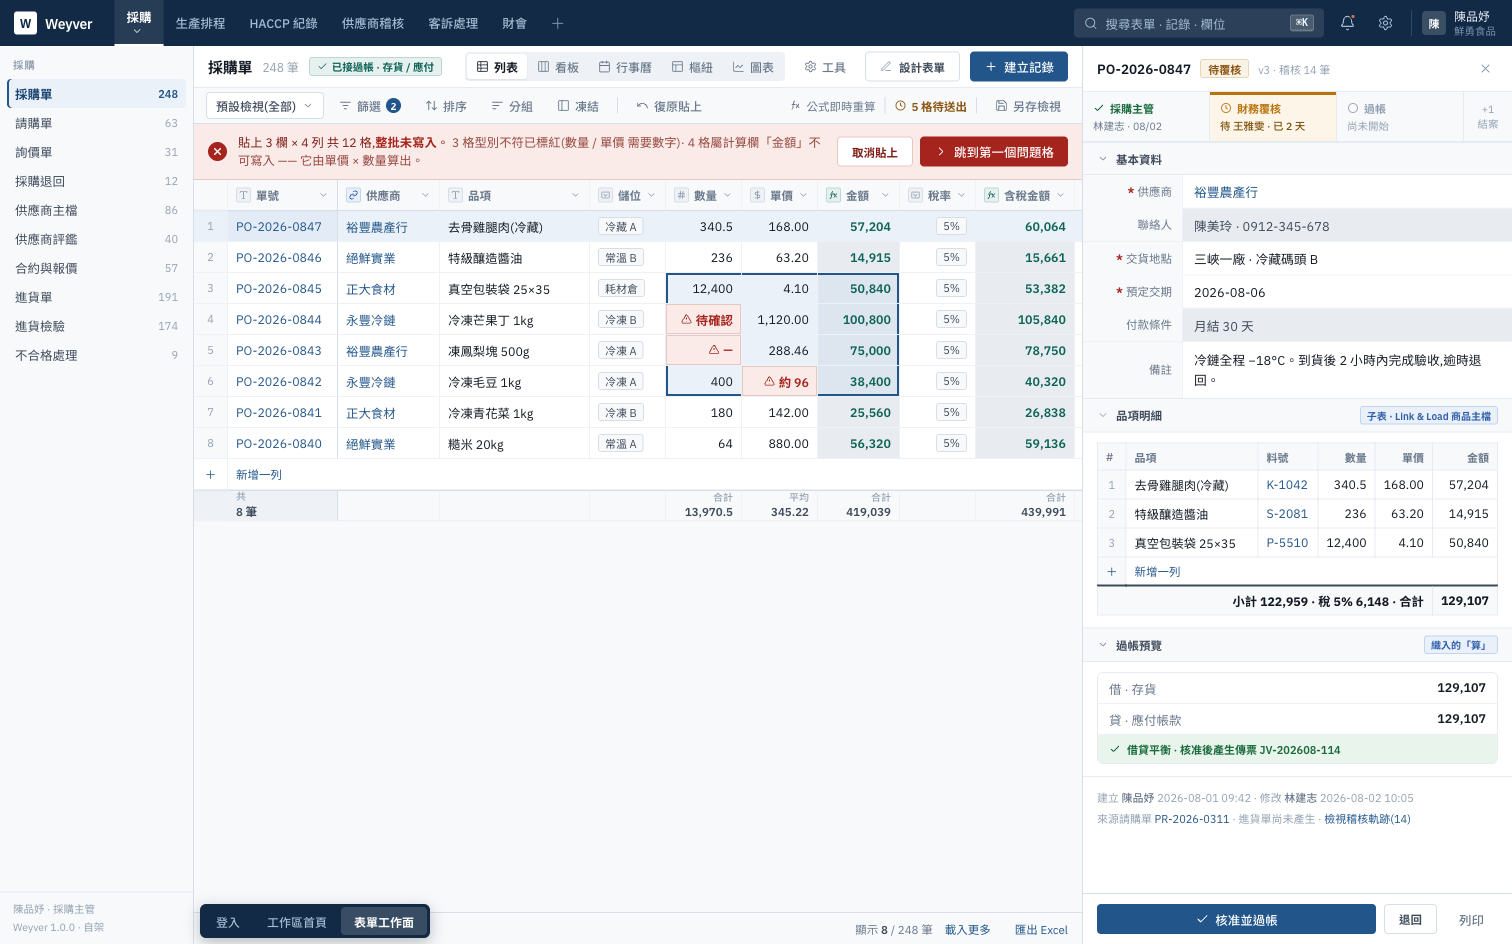
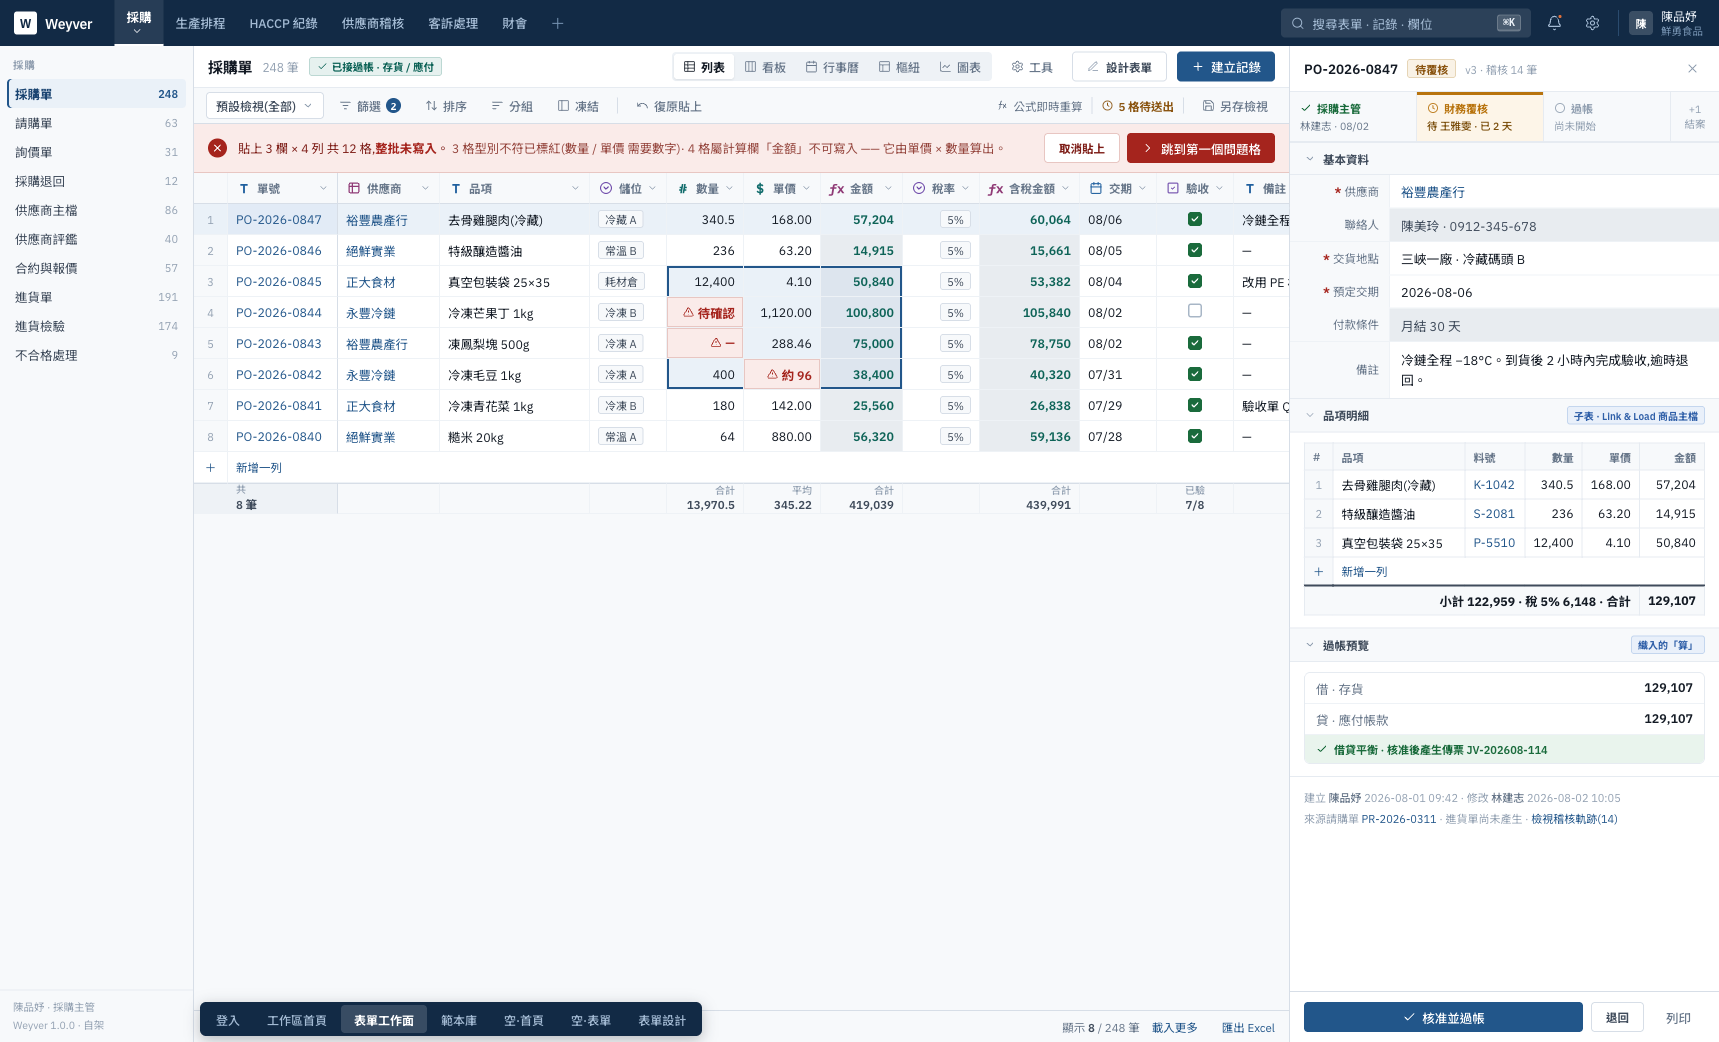
docs(design): E 案型別圖示套進全部三個畫面
決策方選定 B+D 混合並要求套進 mockup。三處:
網格表頭(12 個)· 範本關聯圖(9 個)· 設計器面板(15 個)。

**共用同一個 `.ty`,不是三份碰巧一致的樣式** —— 改一次三個畫面一起變。
`.ty` 本身改成 E 案:去框去底(方框在 13px 下和字符打架,
字符本來就有自己的字身),分組色由 inline --cN 給。

分組色:基本 c1 藍 · 數值 c5 松綠 · 選擇 c3 紫 · 聯絡 c6 青 · 關聯與計算 c4 梅。

**在網格表頭上的實際收益**:一眼掃得出哪幾欄是金額、哪幾欄是算出來的、
哪幾欄是選單 —— 這正是 §6.2「色彩承載結構資訊」而不是裝飾。
(單號 T / 供應商 ⊞ / 數量 # / 單價 $ / 金額 ƒx / 含稅金額 ƒx / 稅率 ▾ / 交期 📅)

⚠ 這推翻共識 R9「純量灰、只有關聯才上色」。
R9 取樣自十家後台軟體,而 §6.1 已記下那個方法論限制:
**共識能告訴你「大家都這樣」,不能告訴你「這樣是對的」。**

diff --git a/docs/mockups/weyver-v2.html b/docs/mockups/weyver-v2.html
@@ -173,12 +173,16 @@ a:hover{text-decoration:underline;}
 .chip.er{background:var(--er-t);color:var(--er);border-color:var(--er-l);}
 .chip.nt{background:var(--nt-t);color:var(--nt);border-color:var(--nt-l);}
 
-/* 共識 R9 —— 型別章:純量灰,關聯 / 公式才上色 */
-.ty{display:inline-flex;align-items:center;justify-content:center;width:15px;height:15px;
-  border:1px solid var(--line);background:var(--paper-3);color:var(--ink-4);border-radius:2px;flex-shrink:0;}
-.ty svg{width:10px;height:10px;stroke-width:2;}
-.ty.rel{background:var(--rel-t);color:var(--rel);border-color:var(--rel-l);}
-.ty.fx{background:var(--fx-t);color:var(--fx);border-color:var(--fx-l);}
+/* 🔴 型別圖示 = E 案(B+D 混合,2026-08-08 裁定)。三個畫面共用同一個 `.ty`:
+   網格表頭 · 範本關聯圖 · 設計器面板。
+   去框去底 —— 方框在 13px 下會和字符打架(字符本來就有自己的字身)。
+   分組色由 inline `--cN` 給:顏色回答「這是哪一類欄位」,不是每個型別各自一色。
+   ⚠ 這推翻了共識 R9「純量灰、只有關聯才上色」——
+      R9 取樣自十家後台軟體,而 §6.1 已記下那個方法論限制。 */
+.ty{display:inline-flex;align-items:center;justify-content:center;width:16px;height:16px;
+  flex-shrink:0;border:0;background:none;color:var(--ink-4);}
+.ty svg{width:13px;height:13px;stroke-width:2;}
+.ty.gl{font-family:'IBM Plex Mono',monospace;font-size:12.5px;font-weight:600;line-height:1;}
 
 /* ══════════════════════════════════════════════════════════════════
    畫面一|登入 —— 🔴 **決策方自己做的**(2026-08-08),原樣移植不重新詮釋。
@@ -1315,18 +1319,18 @@ a:hover{text-decoration:underline;}
             <thead>
               <tr>
                 <th class="gut"></th>
-                <th class="frz" style="min-width:110px"><div class="hh"><span class="ty"><svg viewBox="0 0 24 24"><path d="M4 7V4h16v3M9 20h6M12 4v16"/></svg></span>單號<span class="gr"><svg viewBox="0 0 24 24"><path d="m6 9 6 6 6-6"/></svg></span></div></th>
-                <th class="" style="min-width:102px"><div class="hh"><span class="ty rel"><svg viewBox="0 0 24 24"><path d="M10 13a5 5 0 0 0 7 0l3-3a5 5 0 0 0-7-7l-1 1"/><path d="M14 11a5 5 0 0 0-7 0l-3 3a5 5 0 0 0 7 7l1-1"/></svg></span>供應商<span class="gr"><svg viewBox="0 0 24 24"><path d="m6 9 6 6 6-6"/></svg></span></div></th>
-                <th class="" style="min-width:150px"><div class="hh"><span class="ty"><svg viewBox="0 0 24 24"><path d="M4 7V4h16v3M9 20h6M12 4v16"/></svg></span>品項<span class="gr"><svg viewBox="0 0 24 24"><path d="m6 9 6 6 6-6"/></svg></span></div></th>
-                <th class="" style="min-width:76px"><div class="hh"><span class="ty"><svg viewBox="0 0 24 24"><rect width="18" height="14" x="3" y="5" rx="2"/><path d="m8 11 4 4 4-4"/></svg></span>儲位<span class="gr"><svg viewBox="0 0 24 24"><path d="m6 9 6 6 6-6"/></svg></span></div></th>
-                <th class="r" style="min-width:72px"><div class="hh"><span class="ty"><svg viewBox="0 0 24 24"><path d="M4 9h16M4 15h16M10 3 8 21M16 3l-2 18"/></svg></span>數量<span class="gr"><svg viewBox="0 0 24 24"><path d="m6 9 6 6 6-6"/></svg></span></div></th>
-                <th class="r" style="min-width:76px"><div class="hh"><span class="ty"><svg viewBox="0 0 24 24"><path d="M12 2v20M17 5H9.5a3.5 3.5 0 0 0 0 7h5a3.5 3.5 0 0 1 0 7H6"/></svg></span>單價<span class="gr"><svg viewBox="0 0 24 24"><path d="m6 9 6 6 6-6"/></svg></span></div></th>
-                <th class="r" style="min-width:82px"><div class="hh"><span class="ty fx"><svg viewBox="0 0 24 24"><path d="M4 20c2 0 2.3-1.5 2.6-3L8.6 5C8.9 3.5 9.6 3 11 3"/><path d="M5 10h6M13 9l6 8M19 9l-6 8"/></svg></span>金額<span class="gr"><svg viewBox="0 0 24 24"><path d="m6 9 6 6 6-6"/></svg></span></div></th>
-                <th class="r" style="min-width:60px"><div class="hh"><span class="ty"><svg viewBox="0 0 24 24"><rect width="18" height="14" x="3" y="5" rx="2"/><path d="m8 11 4 4 4-4"/></svg></span>稅率<span class="gr"><svg viewBox="0 0 24 24"><path d="m6 9 6 6 6-6"/></svg></span></div></th>
-                <th class="r" style="min-width:90px"><div class="hh"><span class="ty fx"><svg viewBox="0 0 24 24"><path d="M4 20c2 0 2.3-1.5 2.6-3L8.6 5C8.9 3.5 9.6 3 11 3"/><path d="M5 10h6M13 9l6 8M19 9l-6 8"/></svg></span>含稅金額<span class="gr"><svg viewBox="0 0 24 24"><path d="m6 9 6 6 6-6"/></svg></span></div></th>
-                <th class="" style="min-width:68px"><div class="hh"><span class="ty"><svg viewBox="0 0 24 24"><rect width="18" height="18" x="3" y="4" rx="2"/><path d="M3 10h18M8 2v4M16 2v4"/></svg></span>交期<span class="gr"><svg viewBox="0 0 24 24"><path d="m6 9 6 6 6-6"/></svg></span></div></th>
-                <th class="" style="min-width:54px"><div class="hh"><span class="ty"><svg viewBox="0 0 24 24"><rect width="18" height="18" x="3" y="3" rx="3"/><path d="m8 12 3 3 5-6"/></svg></span>驗收<span class="gr"><svg viewBox="0 0 24 24"><path d="m6 9 6 6 6-6"/></svg></span></div></th>
-                <th class="" style="min-width:150px"><div class="hh"><span class="ty"><svg viewBox="0 0 24 24"><path d="M4 7V4h16v3M9 20h6M12 4v16"/></svg></span>備註<span class="gr"><svg viewBox="0 0 24 24"><path d="m6 9 6 6 6-6"/></svg></span></div></th>
+                <th class="frz" style="min-width:110px"><div class="hh"><span class="ty gl" style="color:var(--c1)">T</span>單號<span class="gr"><svg viewBox="0 0 24 24"><path d="m6 9 6 6 6-6"/></svg></span></div></th>
+                <th class="" style="min-width:102px"><div class="hh"><span class="ty" style="color:var(--c4)"><svg viewBox="0 0 24 24" fill="none" stroke="currentColor" stroke-width="2" stroke-linecap="round" stroke-linejoin="round"><path d="M9 3H5a2 2 0 0 0-2 2v4m6-6h10a2 2 0 0 1 2 2v4M9 3v18m0 0h10a2 2 0 0 0 2-2V9M9 21H5a2 2 0 0 1-2-2V9m0 0h18"/></svg></span>供應商<span class="gr"><svg viewBox="0 0 24 24"><path d="m6 9 6 6 6-6"/></svg></span></div></th>
+                <th class="" style="min-width:150px"><div class="hh"><span class="ty gl" style="color:var(--c1)">T</span>品項<span class="gr"><svg viewBox="0 0 24 24"><path d="m6 9 6 6 6-6"/></svg></span></div></th>
+                <th class="" style="min-width:76px"><div class="hh"><span class="ty" style="color:var(--c3)"><svg viewBox="0 0 24 24" fill="none" stroke="currentColor" stroke-width="2" stroke-linecap="round" stroke-linejoin="round"><circle cx="12" cy="12" r="10"/><path d="m16 10-4 4-4-4"/></svg></span>儲位<span class="gr"><svg viewBox="0 0 24 24"><path d="m6 9 6 6 6-6"/></svg></span></div></th>
+                <th class="r" style="min-width:72px"><div class="hh"><span class="ty gl" style="color:var(--c5)">#</span>數量<span class="gr"><svg viewBox="0 0 24 24"><path d="m6 9 6 6 6-6"/></svg></span></div></th>
+                <th class="r" style="min-width:76px"><div class="hh"><span class="ty gl" style="color:var(--c5)">$</span>單價<span class="gr"><svg viewBox="0 0 24 24"><path d="m6 9 6 6 6-6"/></svg></span></div></th>
+                <th class="r" style="min-width:82px"><div class="hh"><span class="ty gl" style="color:var(--c4)">ƒx</span>金額<span class="gr"><svg viewBox="0 0 24 24"><path d="m6 9 6 6 6-6"/></svg></span></div></th>
+                <th class="r" style="min-width:60px"><div class="hh"><span class="ty" style="color:var(--c3)"><svg viewBox="0 0 24 24" fill="none" stroke="currentColor" stroke-width="2" stroke-linecap="round" stroke-linejoin="round"><circle cx="12" cy="12" r="10"/><path d="m16 10-4 4-4-4"/></svg></span>稅率<span class="gr"><svg viewBox="0 0 24 24"><path d="m6 9 6 6 6-6"/></svg></span></div></th>
+                <th class="r" style="min-width:90px"><div class="hh"><span class="ty gl" style="color:var(--c4)">ƒx</span>含稅金額<span class="gr"><svg viewBox="0 0 24 24"><path d="m6 9 6 6 6-6"/></svg></span></div></th>
+                <th class="" style="min-width:68px"><div class="hh"><span class="ty" style="color:var(--c1)"><svg viewBox="0 0 24 24" fill="none" stroke="currentColor" stroke-width="2" stroke-linecap="round" stroke-linejoin="round"><path d="M8 2v4"/><path d="M16 2v4"/><rect width="18" height="18" x="3" y="4" rx="2"/><path d="M3 10h18"/></svg></span>交期<span class="gr"><svg viewBox="0 0 24 24"><path d="m6 9 6 6 6-6"/></svg></span></div></th>
+                <th class="" style="min-width:54px"><div class="hh"><span class="ty" style="color:var(--c3)"><svg viewBox="0 0 24 24" fill="none" stroke="currentColor" stroke-width="2" stroke-linecap="round" stroke-linejoin="round"><rect width="18" height="18" x="3" y="3" rx="2"/><path d="m9 12 2 2 4-4"/></svg></span>驗收<span class="gr"><svg viewBox="0 0 24 24"><path d="m6 9 6 6 6-6"/></svg></span></div></th>
+                <th class="" style="min-width:150px"><div class="hh"><span class="ty gl" style="color:var(--c1)">T</span>備註<span class="gr"><svg viewBox="0 0 24 24"><path d="m6 9 6 6 6-6"/></svg></span></div></th>
                 <th class="addcol" title="新增欄位">＋</th>
               </tr>
             </thead>
@@ -1651,9 +1655,9 @@ a:hover{text-decoration:underline;}
                 <div class="node">
                   <div class="nh"><span class="t">供應商</span><span class="k">主檔</span></div>
                   <div class="nb">
-                    <div class="fl"><span class="ty"><svg viewBox="0 0 24 24"><path d="M4 7V4h16v3M9 20h6M12 4v16"/></svg></span>供應商名稱</div>
-                    <div class="fl"><span class="ty"><svg viewBox="0 0 24 24"><path d="M4 7V4h16v3M9 20h6M12 4v16"/></svg></span>聯絡人</div>
-                    <div class="fl"><span class="ty"><svg viewBox="0 0 24 24"><path d="M22 17v3a2 2 0 0 1-2.2 2 19 19 0 0 1-8.3-3 19 19 0 0 1-6-6 19 19 0 0 1-3-8.4A2 2 0 0 1 4.1 2h3a2 2 0 0 1 2 1.7c.1 1 .4 1.9.7 2.8a2 2 0 0 1-.5 2.1L8.1 9.9a16 16 0 0 0 6 6l1.3-1.2a2 2 0 0 1 2.1-.5c.9.3 1.8.6 2.8.7a2 2 0 0 1 1.7 2Z"/></svg></span>電話</div>
+                    <div class="fl"><span class="ty gl" style="color:var(--c1)">T</span>供應商名稱</div>
+                    <div class="fl"><span class="ty gl" style="color:var(--c1)">T</span>聯絡人</div>
+                    <div class="fl"><span class="ty" style="color:var(--c6)"><svg viewBox="0 0 24 24" fill="none" stroke="currentColor" stroke-width="2" stroke-linecap="round" stroke-linejoin="round"><path d="M22 16.92v3a2 2 0 0 1-2.18 2 19.79 19.79 0 0 1-8.63-3.07 19.5 19.5 0 0 1-6-6 19.79 19.79 0 0 1-3.07-8.67A2 2 0 0 1 4.11 2h3a2 2 0 0 1 2 1.72 12.84 12.84 0 0 0 .7 2.81 2 2 0 0 1-.45 2.11L8.09 9.91a16 16 0 0 0 6 6l1.27-1.27a2 2 0 0 1 2.11-.45 12.84 12.84 0 0 0 2.81.7A2 2 0 0 1 22 16.92z"/></svg></span>電話</div>
                   </div>
                 </div>
               </div>
@@ -1667,9 +1671,9 @@ a:hover{text-decoration:underline;}
                 <div class="node main">
                   <div class="nh"><span class="t">請購單</span><span class="k">主表</span></div>
                   <div class="nb">
-                    <div class="fl"><span class="ty"><svg viewBox="0 0 24 24"><path d="M4 9h16M4 15h16M10 3 8 21M16 3l-2 18"/></svg></span>單號 <span style="color:var(--ink-4);font-size:10.5px">自動編號 PR</span></div>
-                    <div class="fl"><span class="ty"><svg viewBox="0 0 24 24"><rect width="18" height="18" x="3" y="4" rx="2"/><path d="M3 10h18M8 2v4M16 2v4"/></svg></span>申請日</div>
-                    <div class="fl"><span class="ty"><svg viewBox="0 0 24 24"><path d="M10 13a5 5 0 0 0 7 0l3-3a5 5 0 0 0-7-7l-1 1"/><path d="M14 11a5 5 0 0 0-7 0l-3 3a5 5 0 0 0 7 7l1-1"/></svg></span>供應商</div>
+                    <div class="fl"><span class="ty" style="color:var(--c5)"><svg viewBox="0 0 24 24" fill="none" stroke="currentColor" stroke-width="2" stroke-linecap="round" stroke-linejoin="round"><path d="M10 12h11"/><path d="M10 18h11"/><path d="M10 6h11"/><path d="M4 10h2"/><path d="M4 6h1v4"/><path d="M6 18H4c0-1 2-2 2-3s-1-1.5-2-1"/></svg></span>單號 <span style="color:var(--ink-4);font-size:10.5px">自動編號 PR</span></div>
+                    <div class="fl"><span class="ty" style="color:var(--c1)"><svg viewBox="0 0 24 24" fill="none" stroke="currentColor" stroke-width="2" stroke-linecap="round" stroke-linejoin="round"><path d="M8 2v4"/><path d="M16 2v4"/><rect width="18" height="18" x="3" y="4" rx="2"/><path d="M3 10h18"/></svg></span>申請日</div>
+                    <div class="fl"><span class="ty" style="color:var(--c4)"><svg viewBox="0 0 24 24" fill="none" stroke="currentColor" stroke-width="2" stroke-linecap="round" stroke-linejoin="round"><path d="M9 3H5a2 2 0 0 0-2 2v4m6-6h10a2 2 0 0 1 2 2v4M9 3v18m0 0h10a2 2 0 0 0 2-2V9M9 21H5a2 2 0 0 1-2-2V9m0 0h18"/></svg></span>供應商</div>
                     <div class="more">用途說明 · 狀態</div>
                   </div>
                 </div>
@@ -1678,9 +1682,9 @@ a:hover{text-decoration:underline;}
                   <div class="node">
                     <div class="nh"><span class="t">請購明細</span><span class="k">子表</span></div>
                     <div class="nb">
-                      <div class="fl"><span class="ty"><svg viewBox="0 0 24 24"><path d="M4 7V4h16v3M9 20h6M12 4v16"/></svg></span>品名</div>
-                      <div class="fl"><span class="ty"><svg viewBox="0 0 24 24"><path d="M4 9h16M4 15h16M10 3 8 21M16 3l-2 18"/></svg></span>數量</div>
-                      <div class="fl"><span class="ty"><svg viewBox="0 0 24 24"><path d="M12 2v20M17 5H9.5a3.5 3.5 0 0 0 0 7h5a3.5 3.5 0 0 1 0 7H6"/></svg></span>預估單價</div>
+                      <div class="fl"><span class="ty gl" style="color:var(--c1)">T</span>品名</div>
+                      <div class="fl"><span class="ty gl" style="color:var(--c5)">#</span>數量</div>
+                      <div class="fl"><span class="ty gl" style="color:var(--c5)">$</span>預估單價</div>
                     </div>
                   </div>
                 </div>

diff --git a/docs/38-前端設計規則.md b/docs/38-前端設計規則.md
@@ -331,7 +331,8 @@ mockup 裡的路徑**是真的 Lucide**(`dollar-sign` 逐字比對相同)。
 - **D 字符化** —— `T ¶ # $ @ ƒx` 明顯比象形清楚(NocoDB 就是這樣混用)。
   🔴 但**只有 6/16 個型別有天然字符**,其餘退回灰象形 → 整欄看起來是混的,
   正好落在 §3.3 警告的「混用」上。零成本零相依是它的優點
-- **E · B+D 混合** ✅ **2026-08-08 決策方選定,已套進設計器面板**。
+- **E · B+D 混合** ✅ **2026-08-08 決策方選定,已套進三個畫面**
+  (網格表頭 · 範本關聯圖 · 設計器面板 —— 共用同一個 `.ty`,不是三份碰巧一致的樣式)。
   有天然字符的用字符,其餘用象形 —— **但兩者都吃分組色、同尺寸**。
   🔴 **這一點是關鍵**:D 單獨看是「兩套系統混用」(§3.3 的舊感來源),
   而**一旦共用同一組分組色與同一個字級,它就不是兩套系統,是同一套系統的兩種字身** ——
@@ -341,6 +342,13 @@ mockup 裡的路徑**是真的 Lucide**(`dollar-sign` 逐字比對相同)。
 字體要有那個字符,**而且小尺寸下要可讀**。`№`(自動編號)在 13.5px 的 IBM Plex Mono 下
 **糊成一塊不可讀** —— 截圖放大 2.6 倍才看見,已改回象形(`list-ordered`,
 語意上也更貼切:自動編號 = 有序序列)。最終字符 **6 個:`T ¶ # $ @ ƒx`**。
+
+**分組色**|基本 `c1` 藍 · 數值 `c5` 松綠 · 選擇 `c3` 紫 · 聯絡 `c6` 青 · 關聯與計算 `c4` 梅。
+在網格表頭上的實際收益:**一眼掃得出哪幾欄是金額、哪幾欄是算出來的、哪幾欄是選單** ——
+這正是 §6.2「色彩承載結構資訊」而不是裝飾。
+
+⚠ 這推翻共識 R9「純量灰、只有關聯才上色」。R9 取樣自十家後台軟體,
+而 §6.1 已記下那個方法論限制:**共識能告訴你「大家都這樣」,不能告訴你「這樣是對的」**。
 
 **未涵蓋**|11 個設定頁尚未重新設計。
 
